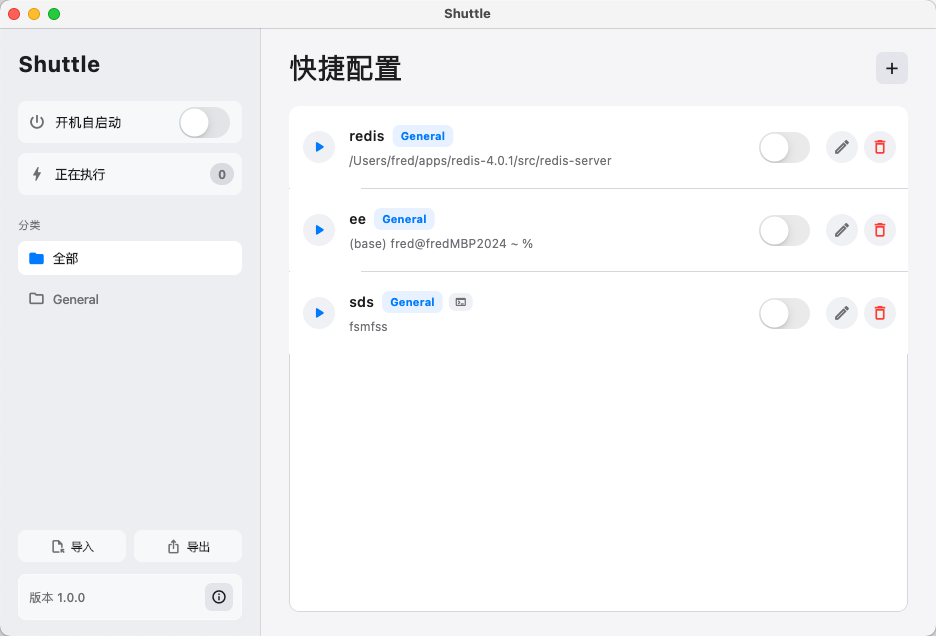
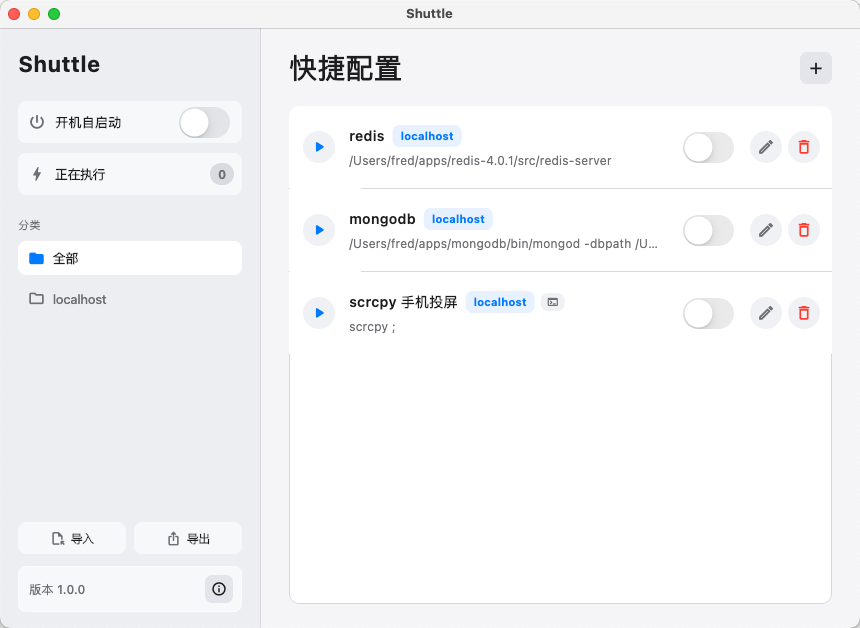
init

diff --git a/README.md b/README.md
@@ -5,7 +5,11 @@ Shuttle is a macOS-first Flutter desktop app for managing and running frequently
 The project is inspired by [fitztrev/shuttle](https://github.com/fitztrev/shuttle), rebuilt with Flutter and native macOS integrations.
 
 
+## Preview
+
 ![preview](preview.png)
+
+![preview2](preview2.png)
 
 ## Features
 